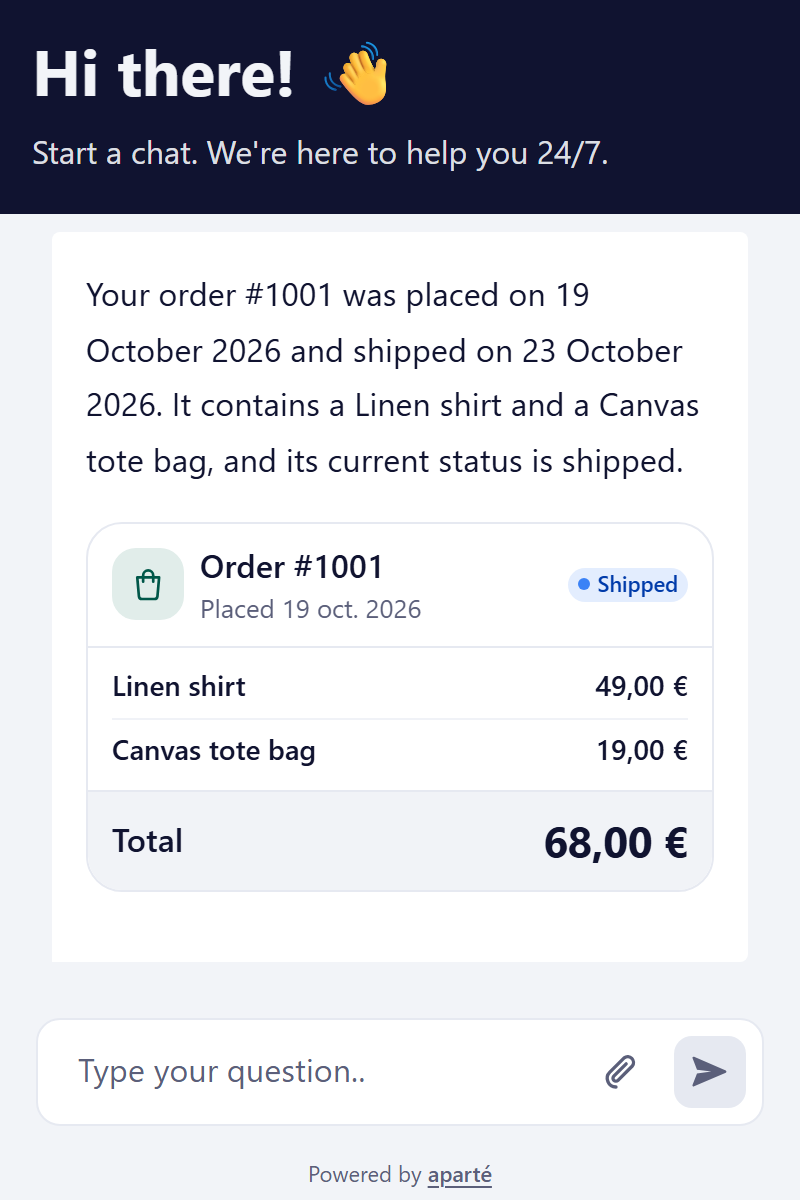
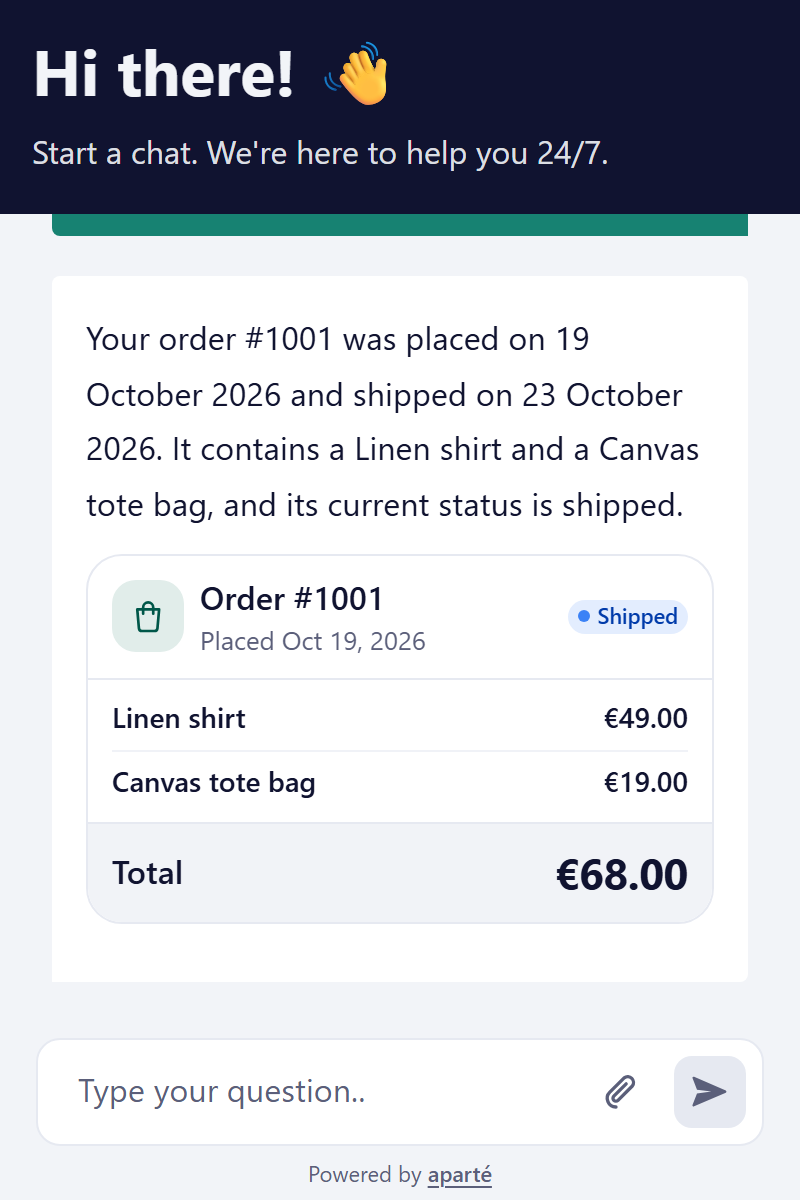
docs: the README for 1.0.0
What 1.x promises, pictures in an answer and the `images` option, where `waitingPrefix` is
needed, quick replies send their label (1 to 100 visible characters), errors on the console,
the first-load weight re-measured (~151 KB on 1.0.0, brotli), install URLs on 1.0.0, and the two
pictures retaken with the composer where it now sits.

diff --git a/README.md b/README.md
@@ -7,8 +7,8 @@ your call. And your workflow can answer with **rich cards** — an order, a book
 weather — and offer **quick replies** the visitor clicks. [See it live](https://n8n-chat.apartejs.dev).
 
 <p>
-  <img src="https://raw.githubusercontent.com/apartejs/n8n-chat/v0.6.0/docs/widget-card-order.png" alt="The widget answering where order 1001 is, with the order's card: its items, its status and its total, and a small Powered by aparté line under the input" width="300">
-  <img src="https://raw.githubusercontent.com/apartejs/n8n-chat/v0.6.0/docs/widget-card-dark.png" alt="The same widget in its dark scheme, answering about order 1002 with its card" width="300">
+  <img src="https://raw.githubusercontent.com/apartejs/n8n-chat/v1.0.0/docs/widget-card-order.png" alt="The widget answering where order 1001 is, with the order's card: its items, its status and its total, and a small Powered by aparté line under the input" width="300">
+  <img src="https://raw.githubusercontent.com/apartejs/n8n-chat/v1.0.0/docs/widget-card-dark.png" alt="The same widget in its dark scheme, answering about order 1002 with its card" width="300">
 </p>
 
 - Rich cards your workflow writes as text: weather, order and booking, product, place, list, key
@@ -19,7 +19,7 @@ weather — and offer **quick replies** the visitor clicks. [See it live](https:
 - Every option of `@n8n/chat` 1.43, the same defaults, the same session in the browser — and the
   Chat nodes' messages and buttons of a workflow that answers through response nodes.
 - Ten languages, keyboard and screen-reader access, readable contrast, a dark scheme.
-- About 143 KB compressed on the first load, against about 471 KB (measured 2026-10-31, `@n8n/chat` 1.44.7).
+- About 151 KB compressed on the first load, against about 471 KB (measured 2026-11-07 on 1.0.0; `@n8n/chat` 1.44.7 on 2026-10-31).
 - A handle to drive it from your page: `open`, `close`, `toggle`, `send`, `reset`, `setDisabled`,
   `destroy`.
 - MIT. A small grey "Powered by aparté" line sits under the input, linking to [apartejs.dev](https://apartejs.dev).
@@ -29,9 +29,9 @@ weather — and offer **quick replies** the visitor clicks. [See it live](https:
 ### From a CDN — no build step
 
 ```html
-<link rel="stylesheet" href="https://cdn.jsdelivr.net/npm/@aparte/n8n-chat@0.6.0/dist/style.css">
+<link rel="stylesheet" href="https://cdn.jsdelivr.net/npm/@aparte/n8n-chat@1.0.0/dist/style.css">
 <script type="module">
-  import { createChat } from 'https://cdn.jsdelivr.net/npm/@aparte/n8n-chat@0.6.0/dist/cdn/n8n-chat.js';
+  import { createChat } from 'https://cdn.jsdelivr.net/npm/@aparte/n8n-chat@1.0.0/dist/cdn/n8n-chat.js';
 
   createChat({ webhookUrl: 'https://your-n8n.example.com/webhook/<id>/chat' });
 </script>
@@ -61,10 +61,10 @@ Replace the stylesheet and the import; the call stays as it is:
 
 ```diff
 - <link href="https://cdn.jsdelivr.net/npm/@n8n/chat/dist/style.css" rel="stylesheet" />
-+ <link href="https://cdn.jsdelivr.net/npm/@aparte/n8n-chat@0.6.0/dist/style.css" rel="stylesheet" />
++ <link href="https://cdn.jsdelivr.net/npm/@aparte/n8n-chat@1.0.0/dist/style.css" rel="stylesheet" />
   <script type="module">
 -   import { createChat } from 'https://cdn.jsdelivr.net/npm/@n8n/chat/dist/chat.bundle.es.js';
-+   import { createChat } from 'https://cdn.jsdelivr.net/npm/@aparte/n8n-chat@0.6.0/dist/cdn/n8n-chat.js';
++   import { createChat } from 'https://cdn.jsdelivr.net/npm/@aparte/n8n-chat@1.0.0/dist/cdn/n8n-chat.js';
     createChat({ webhookUrl: 'https://your-n8n.example.com/webhook/<id>/chat' });
   </script>
 ```
@@ -113,6 +113,8 @@ memory on the agent only, n8n answers that request with an error.
 | `metadata` | sent with every message, as `metadata` in the trigger's output | — |
 | `allowFileUploads`, `allowedFilesMimeTypes` | let the person attach files, and which (`'image/*,application/pdf'`, extensions too) | `false`, any |
 | `cards` | draw the ` ```card-<name> ` blocks of an answer as [cards](#cards-and-quick-replies-from-a-text-answer); an object gives a card its options (`{ place: { mapTiles } }`) | `true` |
+| `images` | which [pictures in an answer](#pictures-in-an-answer) load by themselves: every one, or only those from the origins you list (`['https://cdn.example.com']`; the others wait for a click) | every one |
+| `waitingPrefix` | where your n8n serves a Chat node's button links, when the webhook URL does not tell ([buttons](#response-nodes-and-buttons)) | read from the webhook URL |
 | `setup` | `(config) => stop?`: aparté's plugins and your own cards, on this chat ([below](#your-own-cards-and-apartés-plugins)) | — |
 | `enableMessageActions` | "Repost" and "Reuse" on the person's own messages | `false` |
 | `disabled` | block the input (`true`, or n8n's `{ value }`) | `false` |
@@ -155,7 +157,10 @@ not approved — as with n8n's own widget.
 Up to n8n 2.45, Chat nodes run only when the Chat Trigger's **Mode** is **Hosted Chat**; an
 embedded one stops with "Embedded chat is not supported". n8n 2.46 and 3.0 lift that limit and run
 them in **Embedded** mode too; the widget has been tested with Hosted Chat. A button whose link
-leads off your n8n is not shown.
+leads off your n8n is not shown, nor one whose link does not resume the running execution. The
+widget reads where n8n's waiting links live from the webhook URL. Set `waitingPrefix` (a path) when
+they live elsewhere: your own `N8N_ENDPOINT_WEBHOOK_WAIT`, or your own `N8N_ENDPOINT_WEBHOOK` (a
+webhook URL that is not `…/webhook/<id>/chat`), where no button shows until you do.
 
 ## Cards and quick replies, from a text answer
 
@@ -177,8 +182,11 @@ Which day suits you?
 ````
 
 Nothing of the block shows in the message; the replies are the last answer's, a click sends one as
-if it were typed, and they go when a message is sent. A string is both what is shown and what is
-sent; `{ "label": "Another week", "prompt": "Next week, please" }` shows one and sends the other.
+if it were typed, and they go when a message is sent. A string, or an object's `label`, is both what
+is shown and what is sent: a `prompt` beside it is ignored, so a button never sends words the
+visitor did not read. A reply is 1 to 100 visible characters: a blank one, a longer one or one
+holding invisible characters is left out (the console says so), so a label built from data — a
+long product name — is best shortened.
 The [booking workflow](https://n8n-chat.apartejs.dev/#workflows) offers its days and times this way:
 the agent calls a small **Suggest replies** tool, and a Code node writes the block. `replies: false`
 shows the blocks as code.
@@ -259,7 +267,7 @@ createChat({
 ```
 
 Take `defineCard` from the widget's own module, as above, and from the same URL when you load
-it from a CDN (`…/@aparte/n8n-chat@0.6.0/dist/cdn/n8n-chat.js`): the card and the chat then share
+it from a CDN (`…/@aparte/n8n-chat@1.0.0/dist/cdn/n8n-chat.js`): the card and the chat then share
 one copy of aparté. A kit loaded from another URL keeps its cards where the chat never looks.
 
 ````md
@@ -345,6 +353,23 @@ With `allowFileUploads`, the visitor picks, drops or pastes files, and n8n recei
 `files`, as from n8n's widget. A file can be removed with the keyboard; a picture or a file the
 visitor sent opens in a new tab.
 
+## Pictures in an answer
+
+A picture an answer names loads by itself, as in n8n's own widget: nothing to set. If your workflow
+reads content you do not control — e-mails, web pages, a document a visitor sends — name the
+origins your pictures come from. A model steered by such content can write the conversation into a
+picture's address, and the browser fetches it without a click; with `images`, any other picture
+waits behind a link that names its host, until the visitor clicks it. The same list decides a
+media card's video and sound.
+
+```js
+createChat({ webhookUrl: '…', images: ['https://cdn.example.com'] });
+```
+
+An origin is written with its scheme: `'https://cdn.example.com'` (a bare host allows nothing).
+`'self'` is your page's own origin, `true` or `'*'` every picture, `false` none by itself, and a
+function decides each address (`'load'`, `'hold'` or `'drop'`).
+
 ## Keeping bots out
 
 A public Chat Trigger answers anyone who finds its URL, and every answer can cost you a call to
@@ -358,11 +383,11 @@ so the page puts a fresh token in `metadata` before every message.
 2. In the page:
 
 ```html
-<link rel="stylesheet" href="https://cdn.jsdelivr.net/npm/@aparte/n8n-chat@0.6.0/dist/style.css">
+<link rel="stylesheet" href="https://cdn.jsdelivr.net/npm/@aparte/n8n-chat@1.0.0/dist/style.css">
 <script src="https://challenges.cloudflare.com/turnstile/v0/api.js?render=explicit"></script>
 <div id="turnstile"></div>
 <script type="module">
-  import { createChat } from 'https://cdn.jsdelivr.net/npm/@aparte/n8n-chat@0.6.0/dist/cdn/n8n-chat.js';
+  import { createChat } from 'https://cdn.jsdelivr.net/npm/@aparte/n8n-chat@1.0.0/dist/cdn/n8n-chat.js';
 
   // A Turnstile token is single-use and lasts five minutes: ask for a new one before each message.
   let widgetId;
@@ -430,7 +455,9 @@ createChat({
 
 The header, the first messages, the input and the chat's own words (its buttons, its error card,
 what a screen reader hears) all switch. To follow the visitor's browser, pass
-`defaultLanguage: navigator.language`: a language not shipped reads in English.
+`defaultLanguage: navigator.language`: a language not shipped reads in English, left to right,
+until you give its words ([below](#another-language-right-to-left-included)); `i18n` words under
+`ar` serve `ar-SA` too.
 
 ### Change a few words
 
@@ -539,17 +566,23 @@ or Angular components, inside an `.aparte-n8n` element.
 | Drive it from the page | — | `open`, `close`, `toggle`, `send`, `reset`, `setDisabled`, `destroy` |
 | A new conversation | not until the browser's storage is cleared | `reset()` |
 | A tool's steps after a reload | bubbles with raw JSON | left out, as while chatting |
-| An error | the raw message | a sentence in the visitor's language, the workflow's own words under it, what to fix on the console |
+| An error | the raw message | a sentence in the visitor's language; the workflow's own words and what to fix, on the console |
 | Languages | English | ten, loaded one at a time |
 | Keyboard and screen reader | buttons without names | named controls, a labelled window, a modal sheet on a phone |
 | Contrast of the visitor's bubble | 2.55:1 | 4.7:1 (WCAG AA) |
 | Dark scheme | — | ✓ |
 | Rich cards | the JSON as text | drawn: order, booking, product, weather… |
 | Quick replies offered by an answer | the block as code | buttons above the input |
-| Weight, first load (compressed) | ~471 KB | ~143 KB |
+| Weight, first load (compressed) | ~471 KB | ~151 KB |
 | License | Sustainable Use License | MIT |
 
 ## Versions
+
+From 1.0.0 the widget follows semantic versioning: the options of `createChat`, the handle it
+returns, what the module exports (the card kit included), the `i18n` keys, the `--chat--*`
+variables, the `.aparte-n8n` root with its `data-aparte-theme`, and the files a page loads
+(`dist/cdn/n8n-chat.js`, `dist/style.css`, `./theme.css`) keep their names, and what they do, until
+2.0. A security fix may refuse what was accepted in any release, and says so first in its notes.
 
 The widget depends on **exact** versions of aparté's packages, and moves to a newer aparté only in
 a release of its own. Pin the widget's version in a CDN URL and in your `package.json`, and what you
